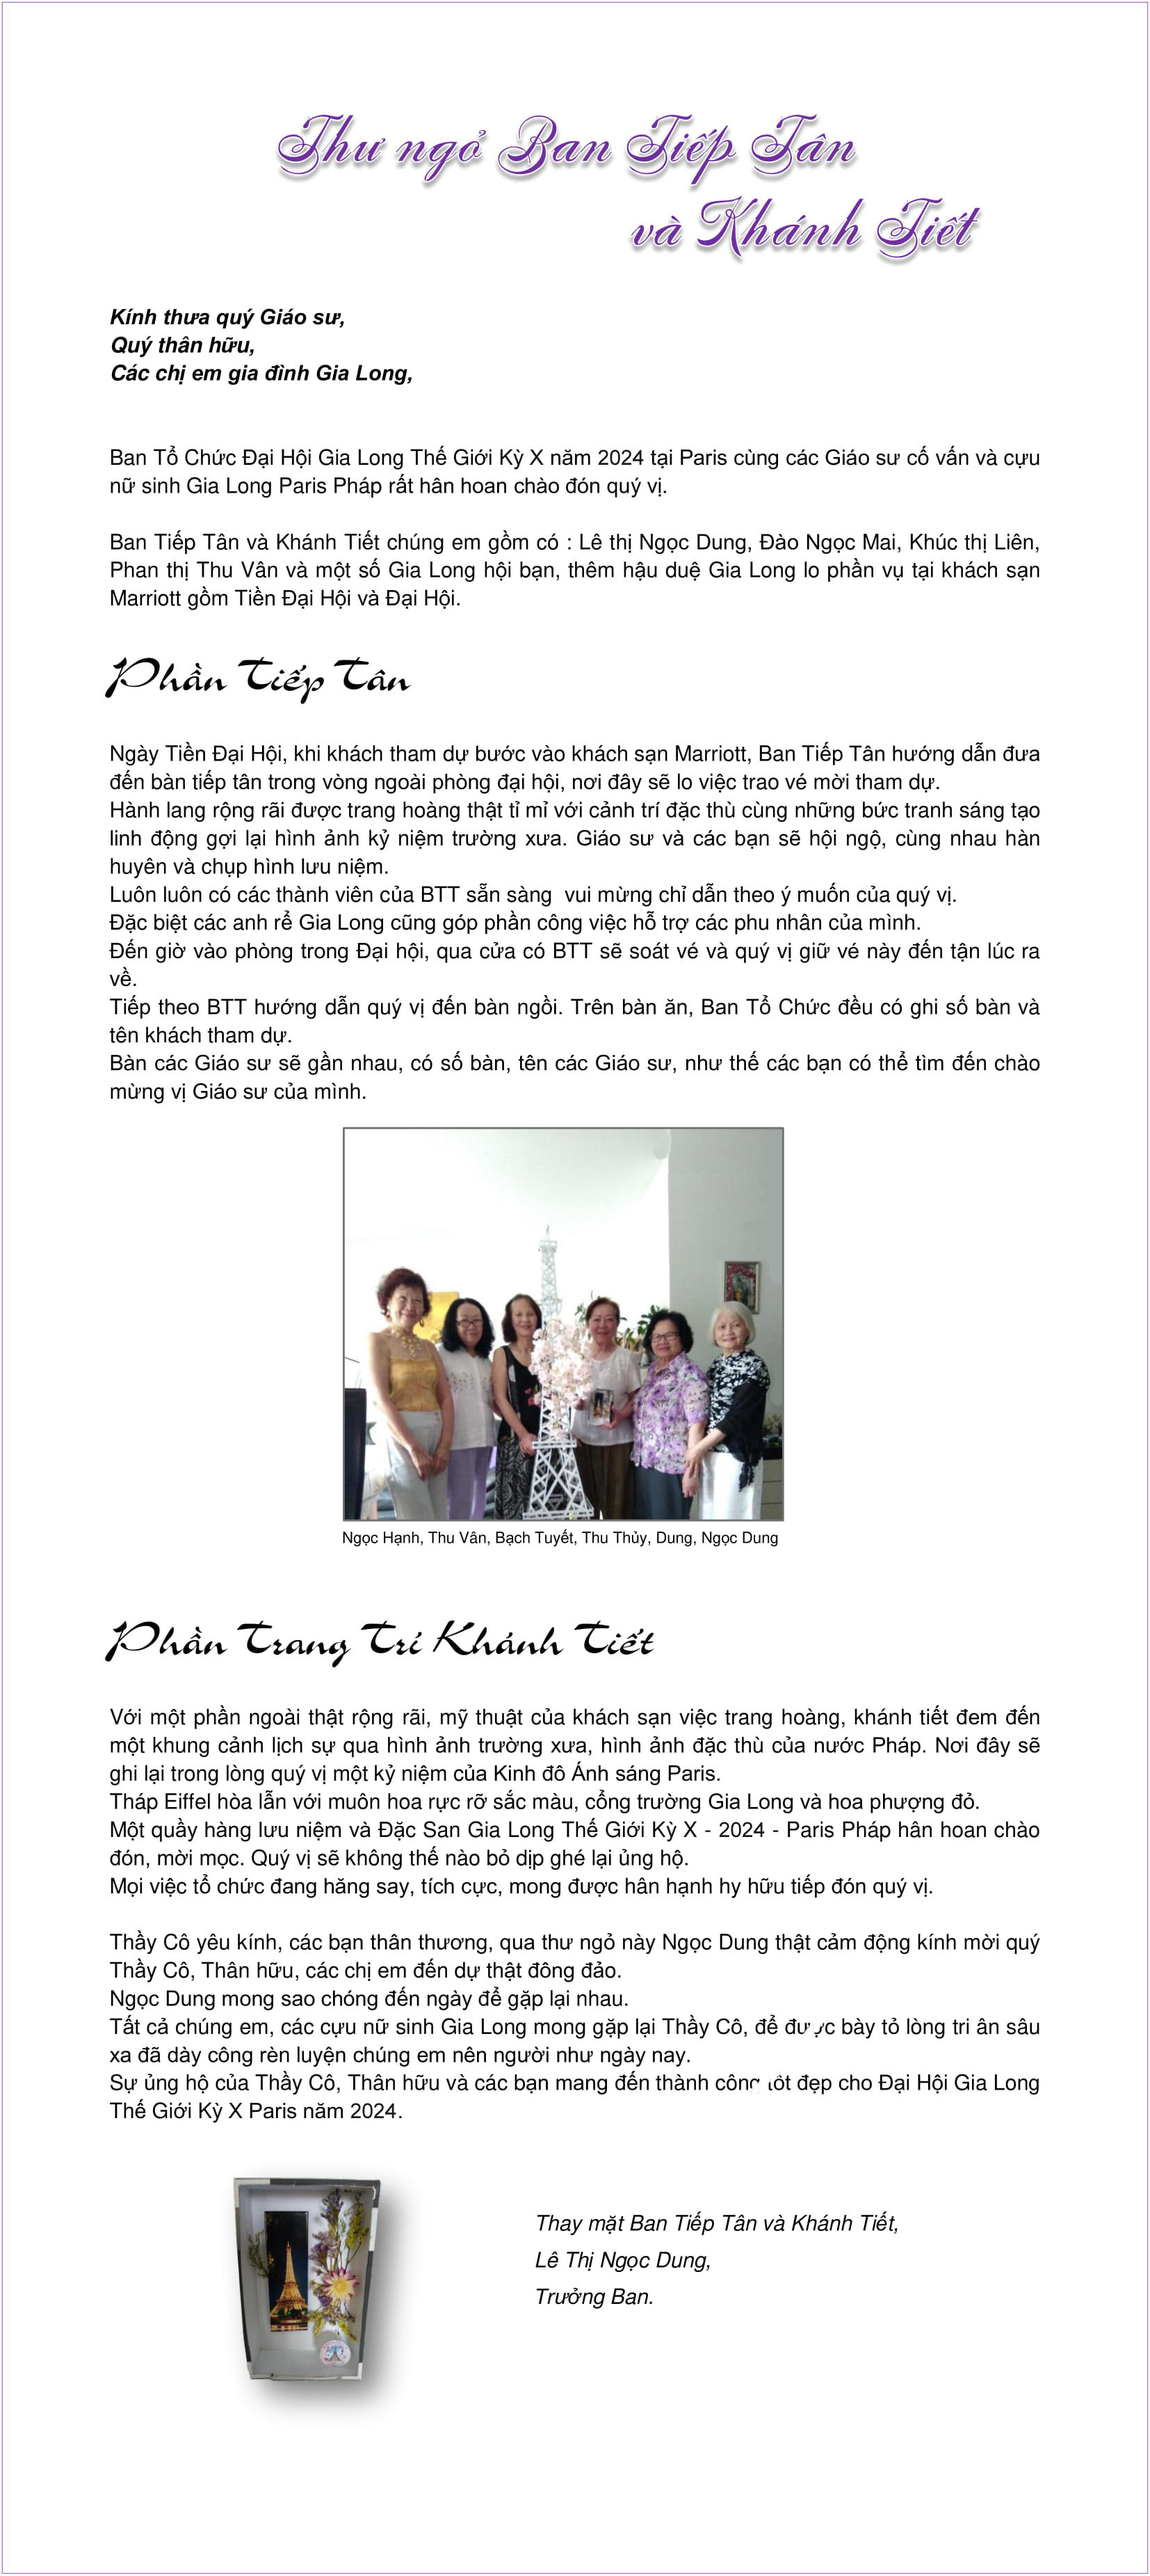
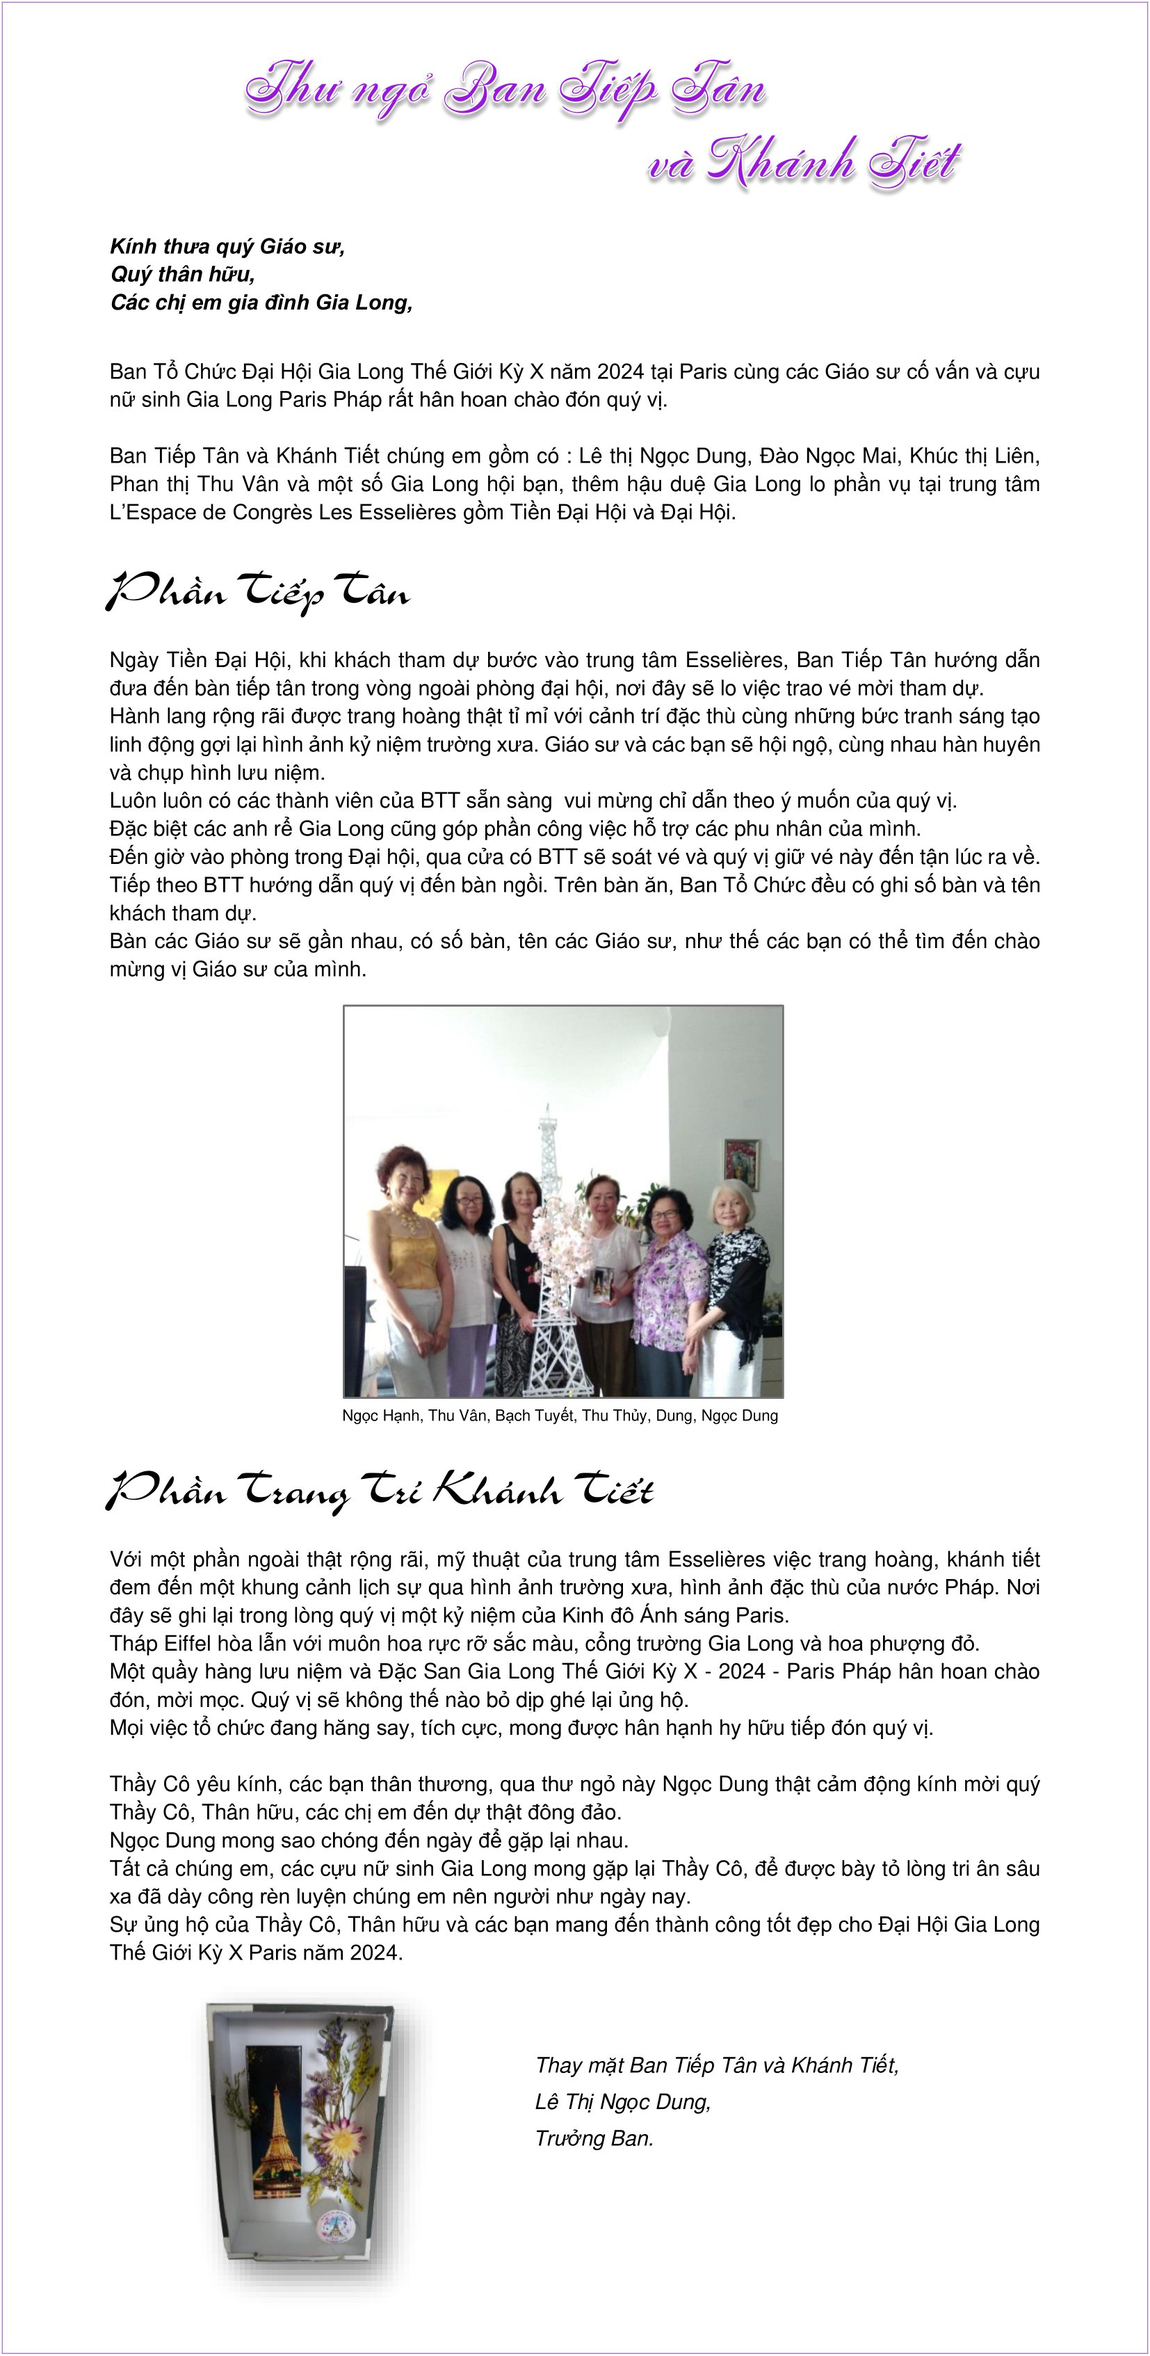
DH 2024 28-06-23
DH 2024 28-06-23

Changed region(s): [[0.0, 0.0, 0.9867, 1.0]]

diff --git a/Dai-hoi10/TienDaiHoi.html b/Dai-hoi10/TienDaiHoi.html
@@ -138,156 +138,9 @@
   <main role="main">
     <div class="container">
       <div class="jumbotron">
-        <!--div class="jumbotron1" style="overflow: hidden; width: 90%;"-->
-        <div class="jumbotron1" style="overflow: hidden; width: 90%;">
-
-          <p><div align="center" style="color: blue; font-size: 20px; font-family: 'Times New Roman', sans-serif;"><b><br>TRANG WEB ĐANG ĐƯỢC THÀNH LẬP</b></div></p>
-          <br><br>
-          <!--p class="titparagraphe" align="center" style="padding-bottom:10px;"><font color="red" size="6"><b>TIỀN ĐẠI HỘI</b></font></p>
-          <p><div align="center" style="color: blue; font-size: 32px; font-family: 'Times New Roman', sans-serif;"><b>TIỀN ĐẠI HỘI</b></div></p>
-        <p class="paragraphe" align="center"><font color="7a0099" size="5"><b>Ngày thứ sáu 14 tháng 5 năm 2021</b></font></p>
- 		  <br>
-		  <font color="purple">
-		  <table class="info-table" border="0" align="center" width="90%">
-			<tr>
-				<td width="70%">
-					<table class="info-table" border="0" align="center" width="100%">
-						<tr>
-							<td width="32%">Thời gian</td>
-							<td width="2%"> : </td>
-							<td width="66%">11 g - 15 g</td>
-						</tr>
-						<tr>
-							<td>Địa điểm</td>
-							<td> : </td>
-							<td>Paris Marriott Rive Gauche Hôtel</td>
-						</tr>
-						<tr>
-							<td>Địa chỉ</td>
-							<td> : </td>
-							<td>17 Boulevard Saint Jacques - 75014 Paris</td>
-						</tr>
-						<tr>
-							<td>Điện thoại</td>
-							<td> : </td>
-							<td>+33 1 40 78 79 00</td>
-						</tr>
-						<tr>
-							<td>Email</td>
-							<td> : </td>
-							<td><a href="mailto:parismarriottrivegauche@marriott.com"><u>parismarriottrivegauche@marriott.com</u></a></td>
-						</tr>
-						<tr>
-							<td>Giá vé</td>
-							<td> : </td>
-							<td><b>50 Euros</b></td>
-						</tr>
-						<tr>
-							<td>Tìm hiểu khách sạn</td>
-							<td> : </td>
-							<td><a href="https://www.marriott.fr/hotels/travel/parst-paris-marriott-rive-gauche-hotel-and-conference-center/" target="_blank"><u>Paris Marriott Rive Gauche Hotel</u></a></td>
-						</tr>
-						<tr>
-							<td>&nbsp&nbsp&nbsp&nbsp&nbsp&nbsp&nbsp   ( Website )</td>
-							<td> </td>
-							<td><b> </b></td>
-						</tr>
-					</table>
-				</td>
-				<td width="30%">
-					<img src="../images/Marriott.jpg" align="right" alt="HOTEL" >
-				</td>
-			</tr>
-	      </table>
-          <br>
-          <p class="titparagraphe" align="center"><font color="darkblue" size="5"><U>Dự thảo chương trình : </U></font></p>
-		  <br>
-		  <div style="overflow: hidden;">
-		  <table class="info-table" border="0" align="center" width="75%">
-			<tr>
-				<td width="16%"><b>11 g 00</b></td>
-				<td width="2%"> : </td>
-				<td width="88%">Đón mừng quan khách</td>
-			</tr>
-			<tr>
-				<td><b>11 g 15</b></td>
-				<td> : </td>
-				<td>Chào mừng quan khách</td>
-			</tr>
-			<tr>
-				<td></td>
-				<td></td>
-				<td>Giới thiệu Giáo sư, các Hội đoàn và các nhóm Gia Long tham dự</td>
-			</tr>
-			<tr>
-				<td><b>12 g 00</b></td>
-				<td> : </td>
-				<td>Ăn trưa. Thực đơn Pháp đặc biệt - Buffer Assis</td>
-			</tr>
-			<tr>
-				<td></td>
-				<td></td>
-				<td>Phát biểu về ĐHGLTG X 2024 và bầu chọn hội đoàn ĐHGLTG kỳ tiếp theo</td>
-			</tr>
-			<tr>
-				<td></td>
-				<td></td>
-				<td>Chụp hình lưu niệm</td>
-			</tr>
-			<tr>
-				<td><b>14 g 00</b></td>
-				<td> : </td>
-				<td>Bế mạc</td>
-			</tr>
-			<tr>
-				<td></td>
-				<td></td>
-				<td>Giáo sư và các bạn nghỉ ngơi hoặc dạo phố Paris</td>
-			</tr>
-		</table>
-
-		</div>
-
-		<br><br>
-		<p class="titparagraphe" align="center"><font color="darkblue" size="5">DU THUYỀN TRÊN SÔNG SEINE - BATEAUX MOUCHES</p></font><br>
-
-		<table class="info-table" border="0" align="center" width="90%">
-			<tr>
-				<td width="11%"></td>
-				<td colspan="2">Du thuyền trên sông Seine quanh thành phố Paris buổi hoàng hôn dưới ánh đèn chiếu sáng cả hai bên dòng sông thơ mộng</td>
-				<td width="10%"></td>
-			</tr>
-			<tr>
-				<td width="11%"></td>
-				<td width="56%">
-					<table class="info-table" border="0" align="left" width="95%">
-						<tr>
-							<td width="24%">Thời gian</td>
-							<td width="3%"> : </td>
-							<td>18 g 00 - 19 g 30</td>
-						</tr>
-						<tr>
-							<td>Địa điểm</td>
-							<td> : </td>
-							<td>Pont Neuf</td>
-						</tr>
-						<tr>
-							<td>Giá vé</td>
-							<td> : </td>
-							<td><b>12 Euros</b></td>
-						</tr>
-					</table>
-				</td>
-				<td colspan="2">
-					<img src="../images/bateau_mouche.jpg" align="right" alt="DU THUYỀN" width="100%">
-			</tr>
-        </table>
-
-          <br>
-          <p class="div-paragraphe"><b>Đại Hội Gia Long Thế Giới Paris chúc Thầy Cô và các bạn tham dự một ngày vui trọn vẹn.</b></p>
-
-          <br><br-->
-         </div>
+        <div class="jumbotron1">
+          <img src="../Dai-hoi10/TienDaiHoi.jpg" class="responsiveImage1">
+        </div>
         </div>
     </div>
   </main>

diff --git a/Dai-hoi10/DaiHoi.html b/Dai-hoi10/DaiHoi.html
@@ -140,119 +140,7 @@
     <div class="container">
       <div class="jumbotron">
         <div class="jumbotron1">
-          <br>
-          <p class="paragraphe" align="center"><img src="../images/Logo_dhgltg2024.png" align="center" width="25%"></p>
-
-          <p><div align="center" style="color: blue; font-size: 32px; font-family: 'Times New Roman', sans-serif;"><b>ĐẠI HỘI</b></div></p>
-
-          <!--p class="paragraphe" align="center"><font color="#7a0099" size="5"><b>Ngày thứ bảy 15 tháng 5 năm 2021</b></font></p>
-          <br>
-          <table class="info-table" border="0" align="center" width="75%">
-            <tr>
-              <td width="30%">Thời gian</td>
-              <td width="5%"> : </td>
-              <td width="70%">16 g 30 - 24 g 00</td>
-            </tr>
-            <tr>
-              <td width="30%">Địa điểm</td>
-              <td width="5%"> : </td>
-              <td width="70%">Paris Marriott Rive Gauche Hôtel</td>
-            </tr>
-            <tr>
-              <td width="30%">Địa chỉ</td>
-              <td width="5%"> : </td>
-              <td width="70%">17 Boulevard Saint Jacques - 75014 Paris</td>
-            </tr>
-            <tr>
-              <td width="30%">Điện thoại</td>
-              <td width="5%"> : </td>
-              <td width="70%">+33 1 40 78 79 00</td>
-            </tr>
-            <tr>
-              <td width="30%">Email</td>
-              <td width="5%"> : </td>
-              <td width="70%"><a href="mailto:parismarriottrivegauche@marriott.com"><u>parismarriottrivegauche@marriott.com</u></a></td>
-            </tr>
-            <tr>
-              <td width="30%">Giá vé</td>
-              <td width="5%"> : </td>
-              <td width="70%"><b>110 Euros</b></td>
-            </tr>
-            <tr>
-              <td>Tìm hiểu khách sạn</td>
-              <td> : </td>
-              <td><a href="https://www.marriott.fr/hotels/travel/parst-paris-marriott-rive-gauche-hotel-and-conference-center/" target="_blank"><u>Paris Marriott Rive Gauche Hotel</u></a></td>
-            </tr>
-          </table-->
-          <br><br>
-          <p class="titparagraphe" align="center"><font color="darkblue" size="5"><U>Dự thảo chương trình : </U></font></p>
-
-          <table class="detail-table" border="0" align="center" width="75%">
-            <!--tr>
-              <td width="30%"><b>18 g 30</b></td>
-              <td width="5%"> : </td>
-              <td width="70%">Đón mừng quan khách</td>
-            </tr-->
-            <tr>
-              <td width="30%"><b>19 g 00</b></td>
-              <td width="5%"> : </td>
-              <td width="70%">Chào mừng quan khách</td>
-            </tr>
-            <tr>
-              <td width="30%"></td>
-              <td width="5%"></td>
-              <td width="70%">Nghi lễ khai mạc</td>
-            </tr>
-            <tr>
-              <td width="30%"></td>
-              <td width="5%"></td>
-              <td width="70%">Giới thiệu Ban Tổ Chức</td>
-            </tr>
-            <tr>
-              <td width="30%"></td>
-              <td width="5%"></td>
-              <td width="70%">Giới thiệu Giáo Sư</td>
-            </tr>
-            <tr>
-              <td width="30%"></td>
-              <td width="5%"></td>
-              <td width="70%">Giới thiệu các Hội đoàn Gia Long Thế Giới</td>
-            </tr>
-            <tr>
-              <td width="30%"></td>
-              <td width="5%"></td>
-              <td width="70%">Trao Cờ Luân Lưu</td>
-            </tr>
-              <td width="30%"><b>20 g 00</b></td>
-              <td width="5%"> : </td>
-              <td width="70%">Dạ tiệc</td>
-            </tr>
-            <tr>
-              <td width="30%"></td>
-              <td width="5%"></td>
-              <td width="70%">Văn nghệ truyền thống</td>
-            </tr>
-            <tr>
-              <td width="30%"></td>
-              <td width="5%"></td>
-              <td width="70%">Tặng quà lưu niệm Giáo Sư</td>
-            </tr>
-            </tr>
-              <td width="30%"><b>21 g 00</b></td>
-              <td width="5%"> : </td>
-              <td width="70%">Dạ vũ</td>
-            </tr>
-            <tr>
-              <td width="25%"><b>24 g 00</b></td>
-              <td width="5%"> : </td>
-              <td width="70%">Bế mạc</td>
-            </tr>
-          </table>
-
-          <br>
-              <p class="paragraphe"><div align="center" style="color: purple; font-size: 22px; font-family: 'Livvic', sans-serif;"><b>GIA LONG MÃI MÃI CÒN ĐÂY</b></div></p>
-              <img src="../images/CongTruongGiaLong.jpg" class="btn-primary" width="60%">
-          <br><br><br>
+          <img src="../Dai-hoi10/DaiHoi.jpg" class="responsiveImage1">
         </div>
       </div>
     </div>

diff --git a/ManhThuongQuan.html b/ManhThuongQuan.html
@@ -143,7 +143,7 @@
 
     <div class="container">
       <div class="jumbotron">
-        <img src="images/DanhSachMTQ.jpg" alt="" class="responsiveImage2">
+        <img src="images/DanhSachManhTQ.jpg" alt="" class="responsiveImage2">
       </div>
     </div>
 
